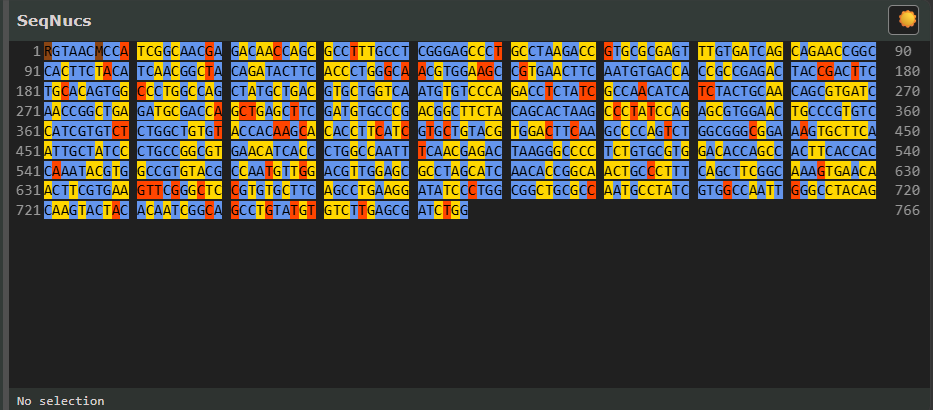
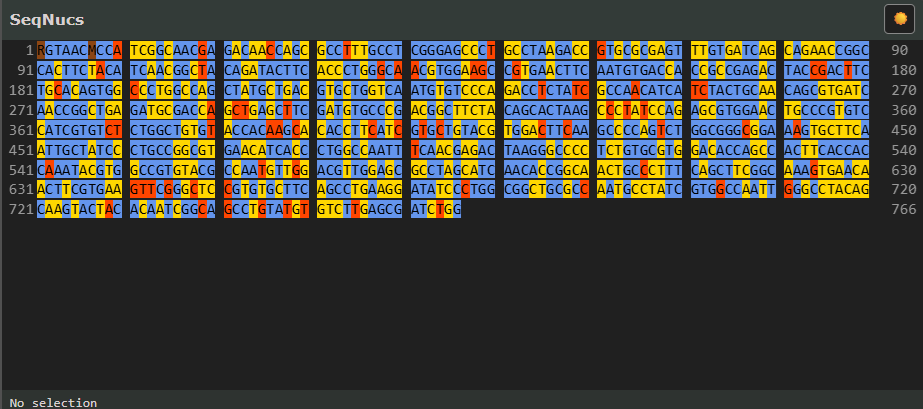
Updated docs, React example.

Changed region(s): [[0.0, 0.0, 1.0, 1.0], [0.9404, 0.0, 1.0, 0.088]]

diff --git a/examples/react/src/App.jsx b/examples/react/src/App.jsx
@@ -11,8 +11,8 @@ function detectSystemTheme() {
 document.documentElement.dataset.appliedMode = detectSystemTheme();
 
 export default function App() {
-    const [theme, setTheme]   = useState(detectSystemTheme);
-    const [peaks, setPeaks]   = useState(null);
+    const [theme, setTheme] = useState(detectSystemTheme);
+    const [peaks, setPeaks] = useState(null);
     const [status, setStatus] = useState('No selection');
 
     const leftResizerRef = useRef(null);
@@ -93,7 +93,10 @@ export default function App() {
             <div className="main">
                 <div className="toolbar">
                     <span className="toolbar-title">SeqNucs</span>
-                    <button onClick={toggleTheme} style={{ fontSize: '16px' }}>
+                    <button
+                        onClick={toggleTheme}
+                        style={{fontSize: "12px"}}
+                    >
                         {theme === 'dark' ? '☀️' : '🌙'}
                     </button>
                 </div>